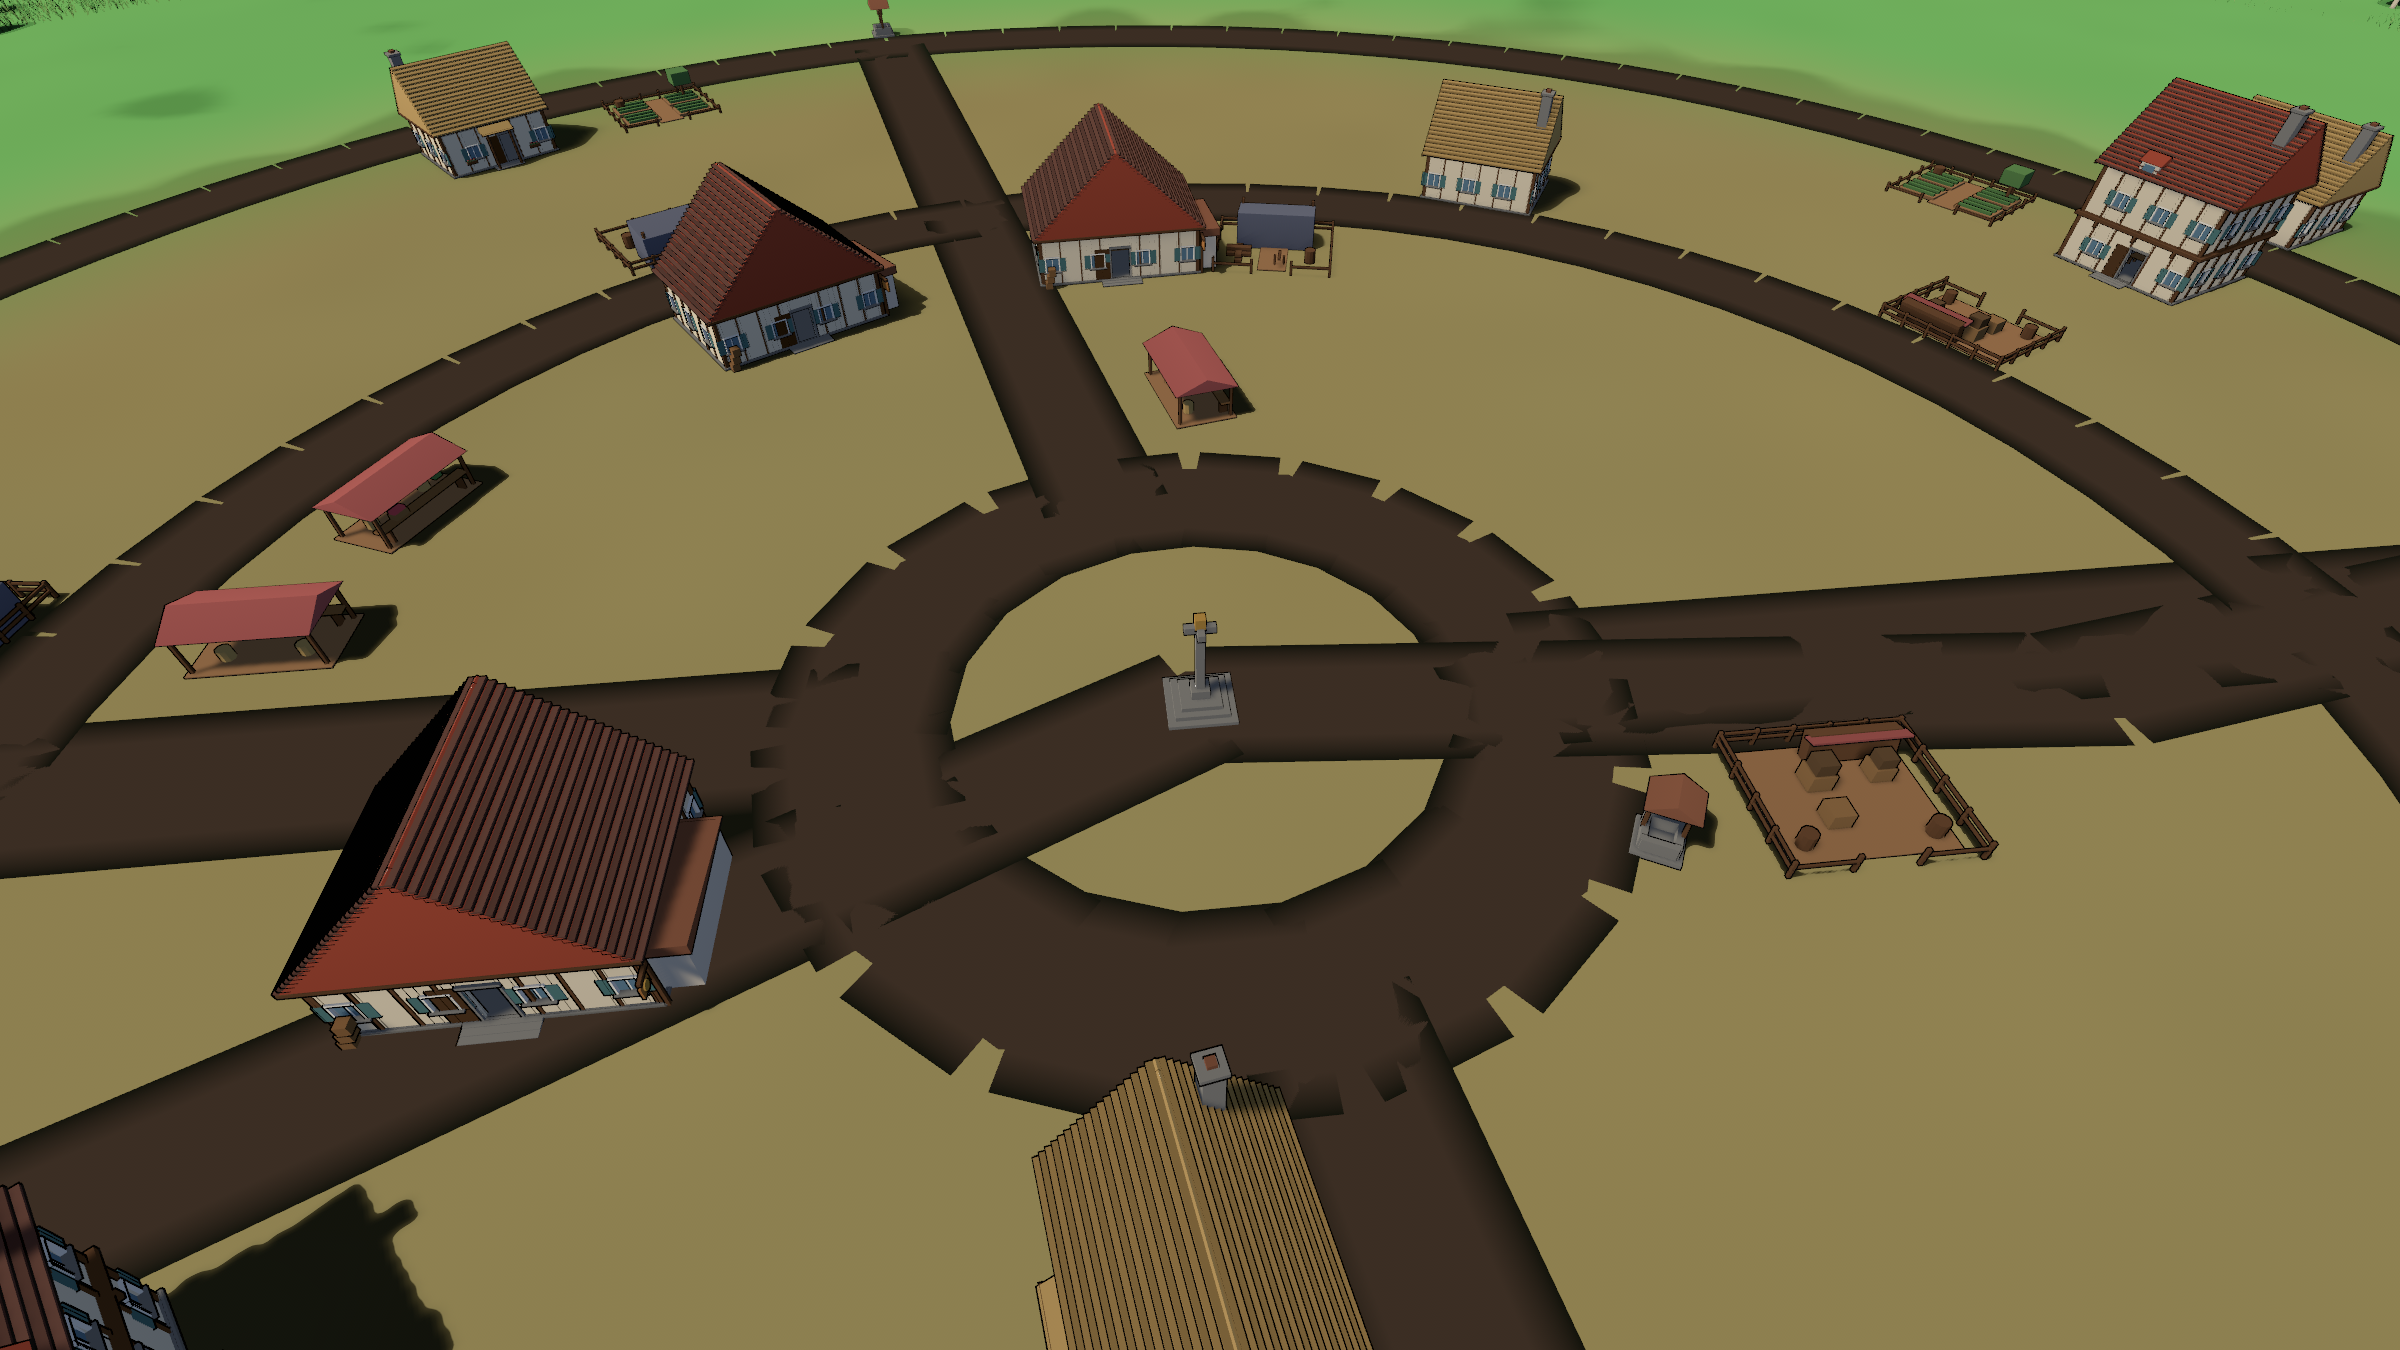
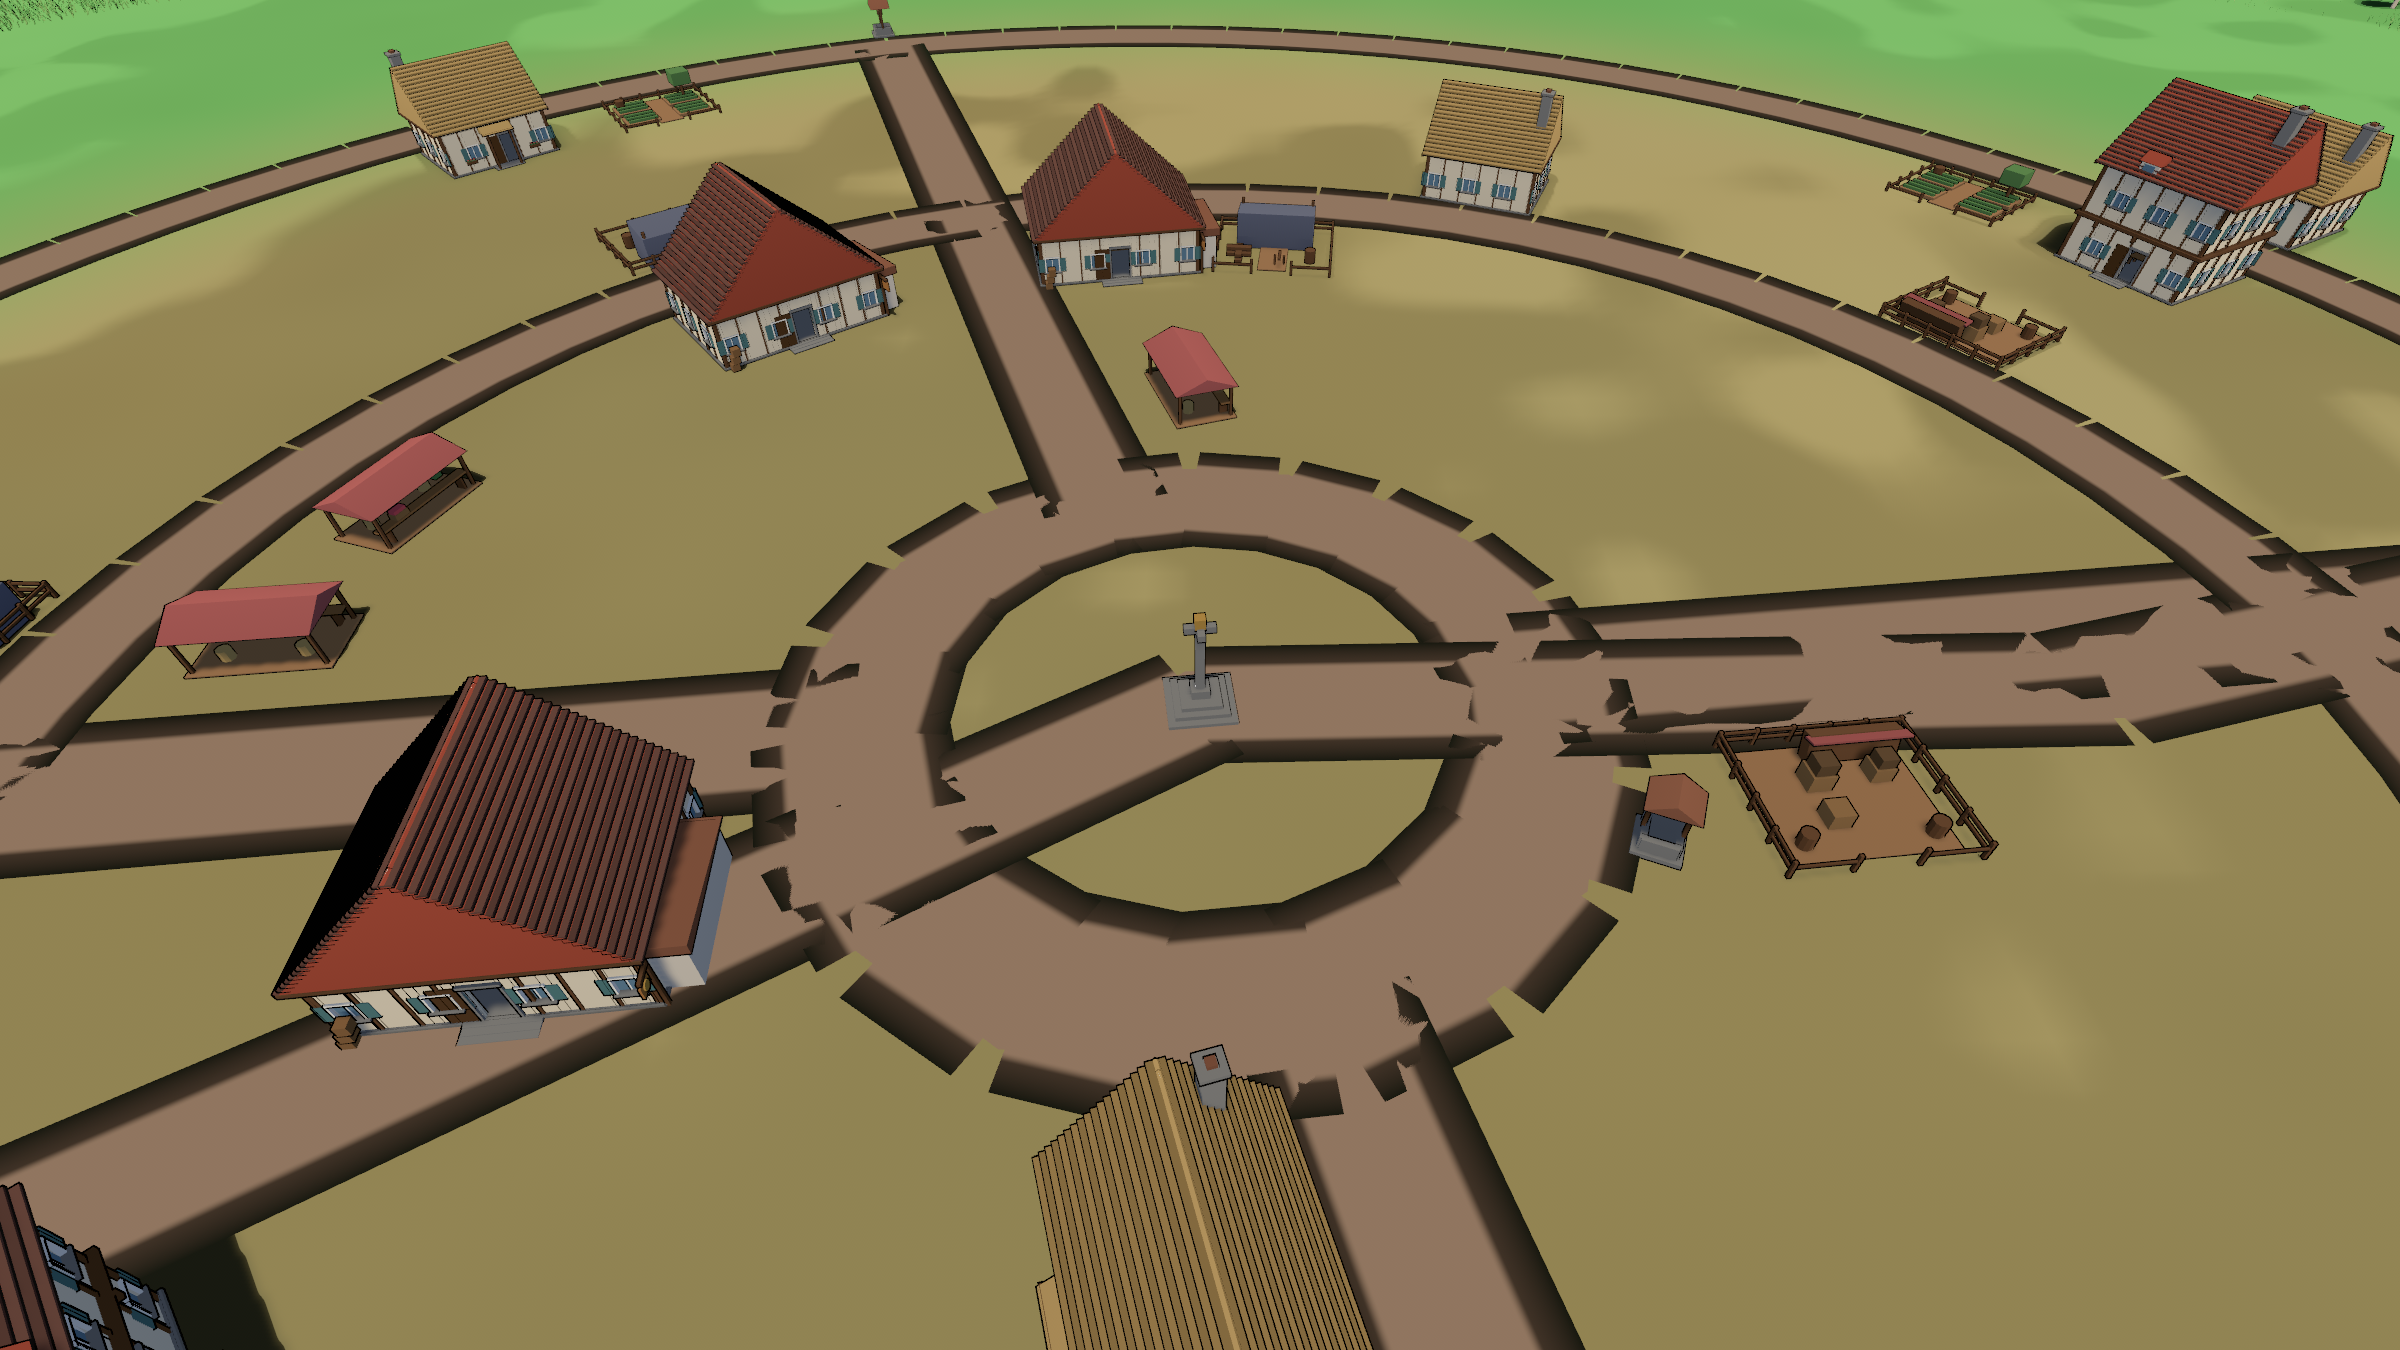
The door was on the back of every building in the world
A figure is built in Blender with its doorway on -Y, and the glTF export turns
Z-up into Y-up - (x, y, z) becomes (x, z, -y) - so a door built facing -Y arrives
in the game facing +Z. The spawn turned each model by -facing, which sends its
local +Z to (-sin, cos), while Plot::walls leaves the doorway gap at (sin, -cos).
Exactly opposite. The wall with the door in it faced away from the street, and
the gap you could actually walk through was in the blank wall on the street side.

Every measurement said this was fine. Doors sat 3.5 m from a kerb across 491 of
them, and every_building_faces_a_street passed on all thirty seeds - because both
ask the LOT which way its frontage looks, and nothing asked the MODEL which way
its door was built. It took photographing one cottage from above and seeing its
doorstep on the far side of it from the road.

model_turn is PI - facing, which brings the model's +Z round to the doorway.

Blender now writes down which way it built the door and
a_models_door_lands_where_the_doorway_is closes the loop between the two. Checked
that it bites: against the old rotation it reports the door pointing (0, 1) while
the doorway is at (0, -1).

diff --git a/src/world/town.rs b/src/world/town.rs
@@ -160,6 +160,30 @@ pub enum District {
     Outskirts,
 }
 
+/// Which way to turn a model so its door lands where the doorway is.
+///
+/// # The door was on the back of every building in the world
+///
+/// A figure is built in Blender with its doorway on -Y, and the glTF export turns
+/// Blender's Z-up into Y-up: `(x, y, z)` becomes `(x, z, -y)`. So the door that was
+/// built facing -Y arrives in the game facing +Z.
+///
+/// The spawn turned the model by `-facing`, which sends its local +Z to
+/// `(-sin, cos)`. `Plot::walls` puts the doorway gap at `(sin, -cos)` - the way the
+/// lot's own frontage looks. Those are exactly opposite, so the wall with the door
+/// in it faced away from the street while the gap you could actually walk through
+/// was in the blank wall on the street side.
+///
+/// Every measurement said this was fine, because every measurement asked the LOT:
+/// doors sat 3.5 m from a kerb, and `every_building_faces_a_street` passed on all
+/// thirty seeds. Nothing compared the model against the collision. Photographed from
+/// above, the cottage's doorstep is on the far side of it from the road.
+///
+/// `PI - facing` sends local +Z to `(sin, -cos)`, which is the doorway.
+fn model_turn(facing: f32) -> f32 {
+    std::f32::consts::PI - facing
+}
+
 impl District {
     /// How much of its frontage this district occupies, as yards per building.
     ///
@@ -2182,7 +2206,7 @@ pub fn raise_the_towns(
                 FromSite(key),
                 SceneRoot(assets.load(GltfAssetLabel::Scene(0).from_asset(plot.what.model()))),
                 Transform::from_xyz(plot.at.x, stands, plot.at.y)
-                    .with_rotation(Quat::from_rotation_y(-plot.facing)),
+                    .with_rotation(Quat::from_rotation_y(model_turn(plot.facing))),
                 Visibility::default(),
             ));
         }
@@ -2406,7 +2430,7 @@ impl Plugin for TownPlugin {
 mod tests {
     use super::*;
 
-    fn a_site(city: bool, radius: f32) -> Site {
+    pub(super) fn a_site(city: bool, radius: f32) -> Site {
         Site {
             at: Vec2::new(120.0, -80.0),
             height: 30.0,
@@ -3312,6 +3336,54 @@ mod tests {
         for (a, b) in once.plots.iter().zip(&twice.plots) {
             assert_eq!(a.what, b.what);
             assert!((a.at - b.at).length() < 1.0e-5);
+        }
+    }
+}
+
+#[cfg(test)]
+mod doorstep {
+    use super::*;
+
+    /// A model's door lands where the doorway is.
+    ///
+    /// # The one thing nothing compared
+    ///
+    /// Doors were 3.5 m from a kerb and `every_building_faces_a_street` passed on
+    /// every seed, and the door was still on the back of the building - because both
+    /// of those ask the LOT which way its frontage looks, and neither asks the MODEL
+    /// which way its door was built. Photographed from above, the cottage's doorstep
+    /// was on the far side of it from the road.
+    ///
+    /// This closes the loop: Blender writes down which way it built the door, and
+    /// the turn the game applies has to bring it round to the gap `Plot::walls`
+    /// leaves. Nothing here is a restatement of the placement rule.
+    #[test]
+    fn a_models_door_lands_where_the_doorway_is() {
+        let note = std::path::Path::new(env!("CARGO_MANIFEST_DIR"))
+            .join("assets/models/town.txt");
+        let said = std::fs::read_to_string(&note)
+            .unwrap_or_else(|_| panic!("run dev/art/build.sh: {} is missing", note.display()));
+        let built: f32 = said
+            .lines()
+            .find_map(|line| line.strip_prefix("DOOR_ON_BLENDER_Y "))
+            .expect("which way Blender built the door")
+            .trim()
+            .parse()
+            .expect("a number");
+
+        // Blender Z-up to glTF Y-up: (x, y, z) becomes (x, z, -y). So a door built
+        // facing Blender -Y arrives facing +Z.
+        let in_model = Vec3::new(0.0, 0.0, -built);
+
+        for facing in [0.0_f32, 0.7, 1.9, 3.0, -2.2, -0.4] {
+            let turned = Quat::from_rotation_y(model_turn(facing)) * in_model;
+            let shows = Vec2::new(turned.x, turned.z);
+            // Where `Plot::walls` leaves the gap.
+            let gap = Vec2::new(facing.sin(), -facing.cos());
+            assert!(
+                shows.distance(gap) < 1.0e-4,
+                "facing {facing:.2}: the model's door points {shows:?} and the doorway is at {gap:?} - the door is on the wrong wall",
+            );
         }
     }
 }

diff --git a/dev/art/town.py b/dev/art/town.py
@@ -1295,3 +1295,18 @@ def build(name: str) -> None:
 
 for figure in FIGURES:
     build(figure)
+
+# Which way the doorway faces, written where the game can read it.
+#
+# `shell` puts the door on the SOUTH wall - Blender -Y - and the glTF export turns
+# Blender's Z-up into Y-up, so it arrives in the game facing +Z. The game turns each
+# model by `model_turn` to land that on the street. The two were opposite for the
+# life of the project and every measurement missed it, because every measurement
+# asked the LOT where the door should be rather than asking the MODEL where it is.
+HERE = os.path.dirname(os.path.abspath(__file__))
+NOTE = os.path.join(os.path.dirname(os.path.dirname(HERE)), "assets", "models", "town.txt")
+os.makedirs(os.path.dirname(NOTE), exist_ok=True)
+with open(NOTE, "w", encoding="utf-8") as note:
+    note.write("# Written by dev/art/town.py. Read by world::town's tests.\n")
+    note.write("DOOR_ON_BLENDER_Y -1\n")
+print(f"WROTE {NOTE}")

diff --git a/codex-suggestions/CODEX_REVIEW_2026-08-29_1420.md b/codex-suggestions/CODEX_REVIEW_2026-08-29_1420.md
@@ -1,0 +1,21 @@
+# Codex follow-up — yard pass accepted
+
+Read-only review through `36481c3`. No blocker found in the committed yard pass. The district-relative budget, city/village programme split, local deterministic choice, explicit building-vs-yard counts, and fence openings all address the previous findings directly.
+
+## One guard is improved, but not actually exhaustive
+
+`Building::ALL` is a much better single maintenance point, but the claim that a future variant "cannot evade it" is stronger than the code guarantees. `ALL` is still a manually written array; Rust will happily compile if a twentieth enum variant is added while the array remains `[Building; 19]`. The exhaustive `model()` match forces a path for the new variant, but the on-disk artefact test still will not visit it.
+
+This is low priority. If strict exhaustiveness is worth the machinery, derive iteration (for example through an existing enum-iteration facility) or define the enum and its iterable list from one macro/source. Otherwise keep `ALL` and describe it accurately as a centralized manual list rather than a compiler-enforced one.
+
+## Visual evidence after the yard pass
+
+The yards do improve frontage occupation and make the village node feel used. The strongest remaining settlement defect in the new matrix is now the road surface itself:
+
+- At `village_node`, intersections and the central ring break into large jagged triangular notches and dark wedges. Those shapes dominate the foreground more than the new authored props.
+- `city_node` has the same torn/starburst junction read in higher contrast against the pale city ground.
+- `city_entrance` does not present a clearly continuous road from the player to the city. Determine whether this is a shot-direction problem, a ground/value transition problem, or actual approach connectivity before changing geometry.
+
+Recommendation: after the active doorway-distance measurement, treat junction triangulation/coverage and entrance-road continuity as the next settlement visual review. Validate from player height at the node and entrance, not only in the plan view. This is the existing V2 family of work; the new evidence raises its priority, but does not require interrupting the current investigation.
+
+No game files were changed by Codex.
